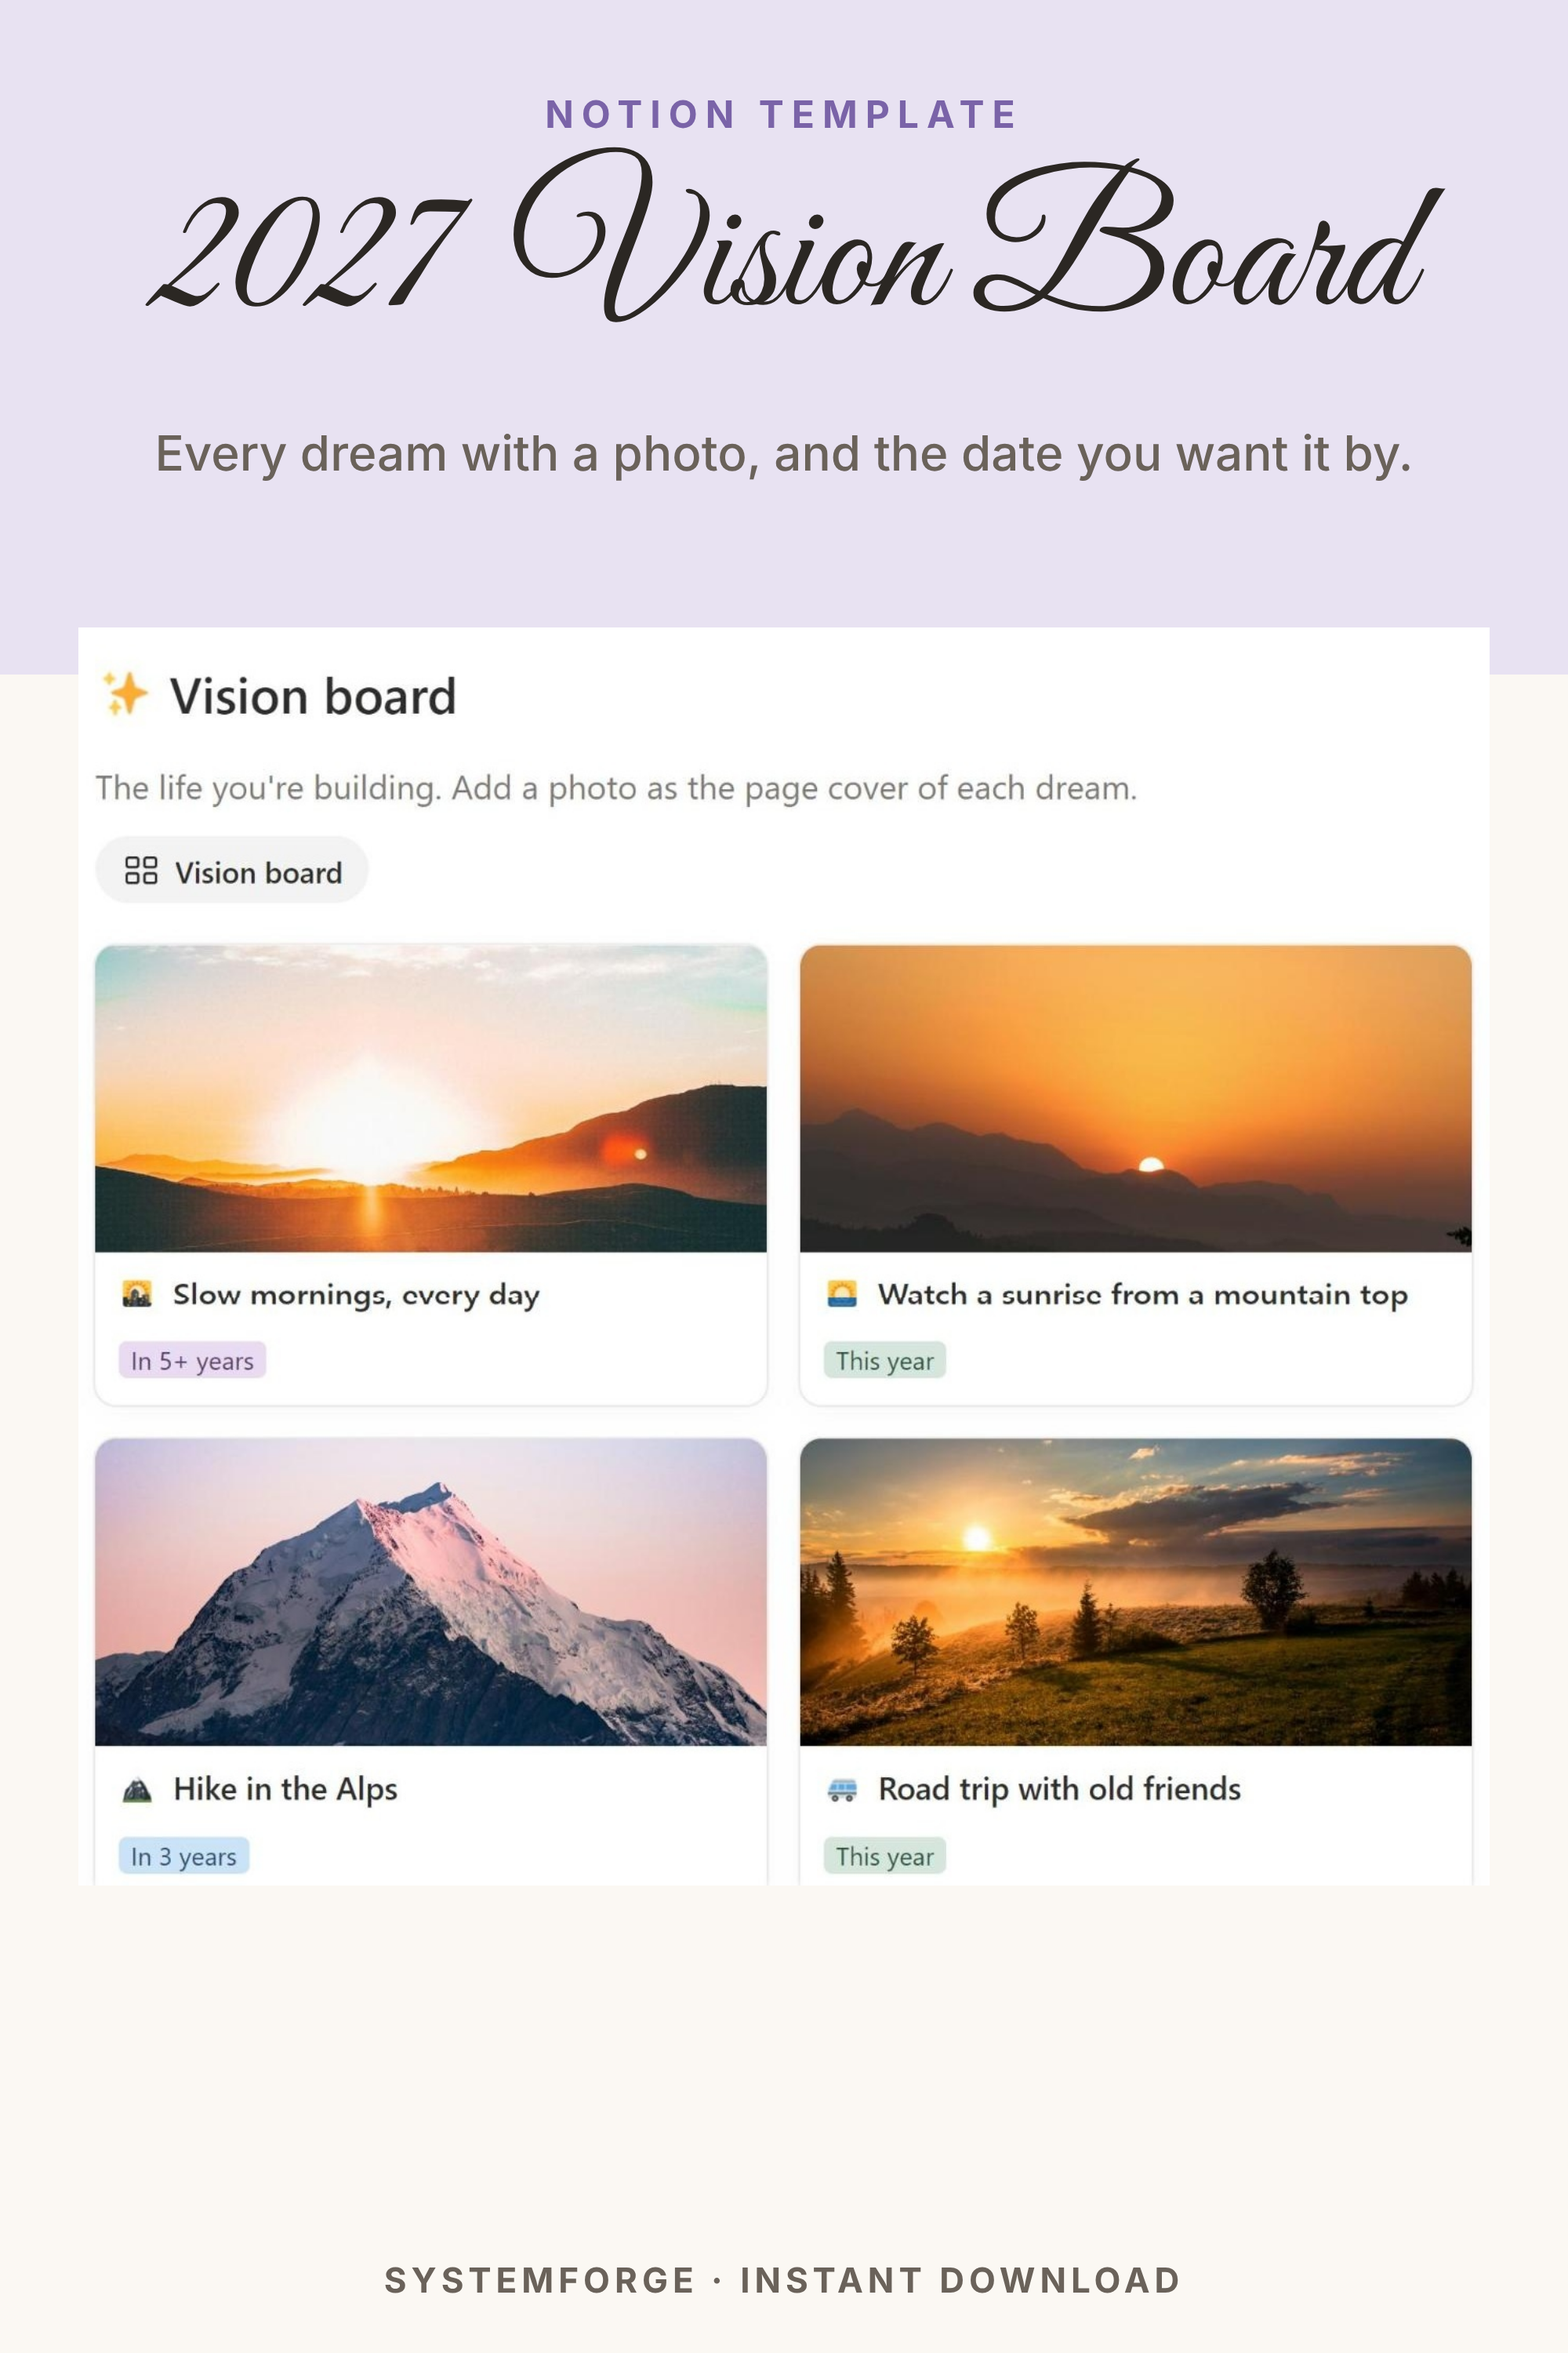
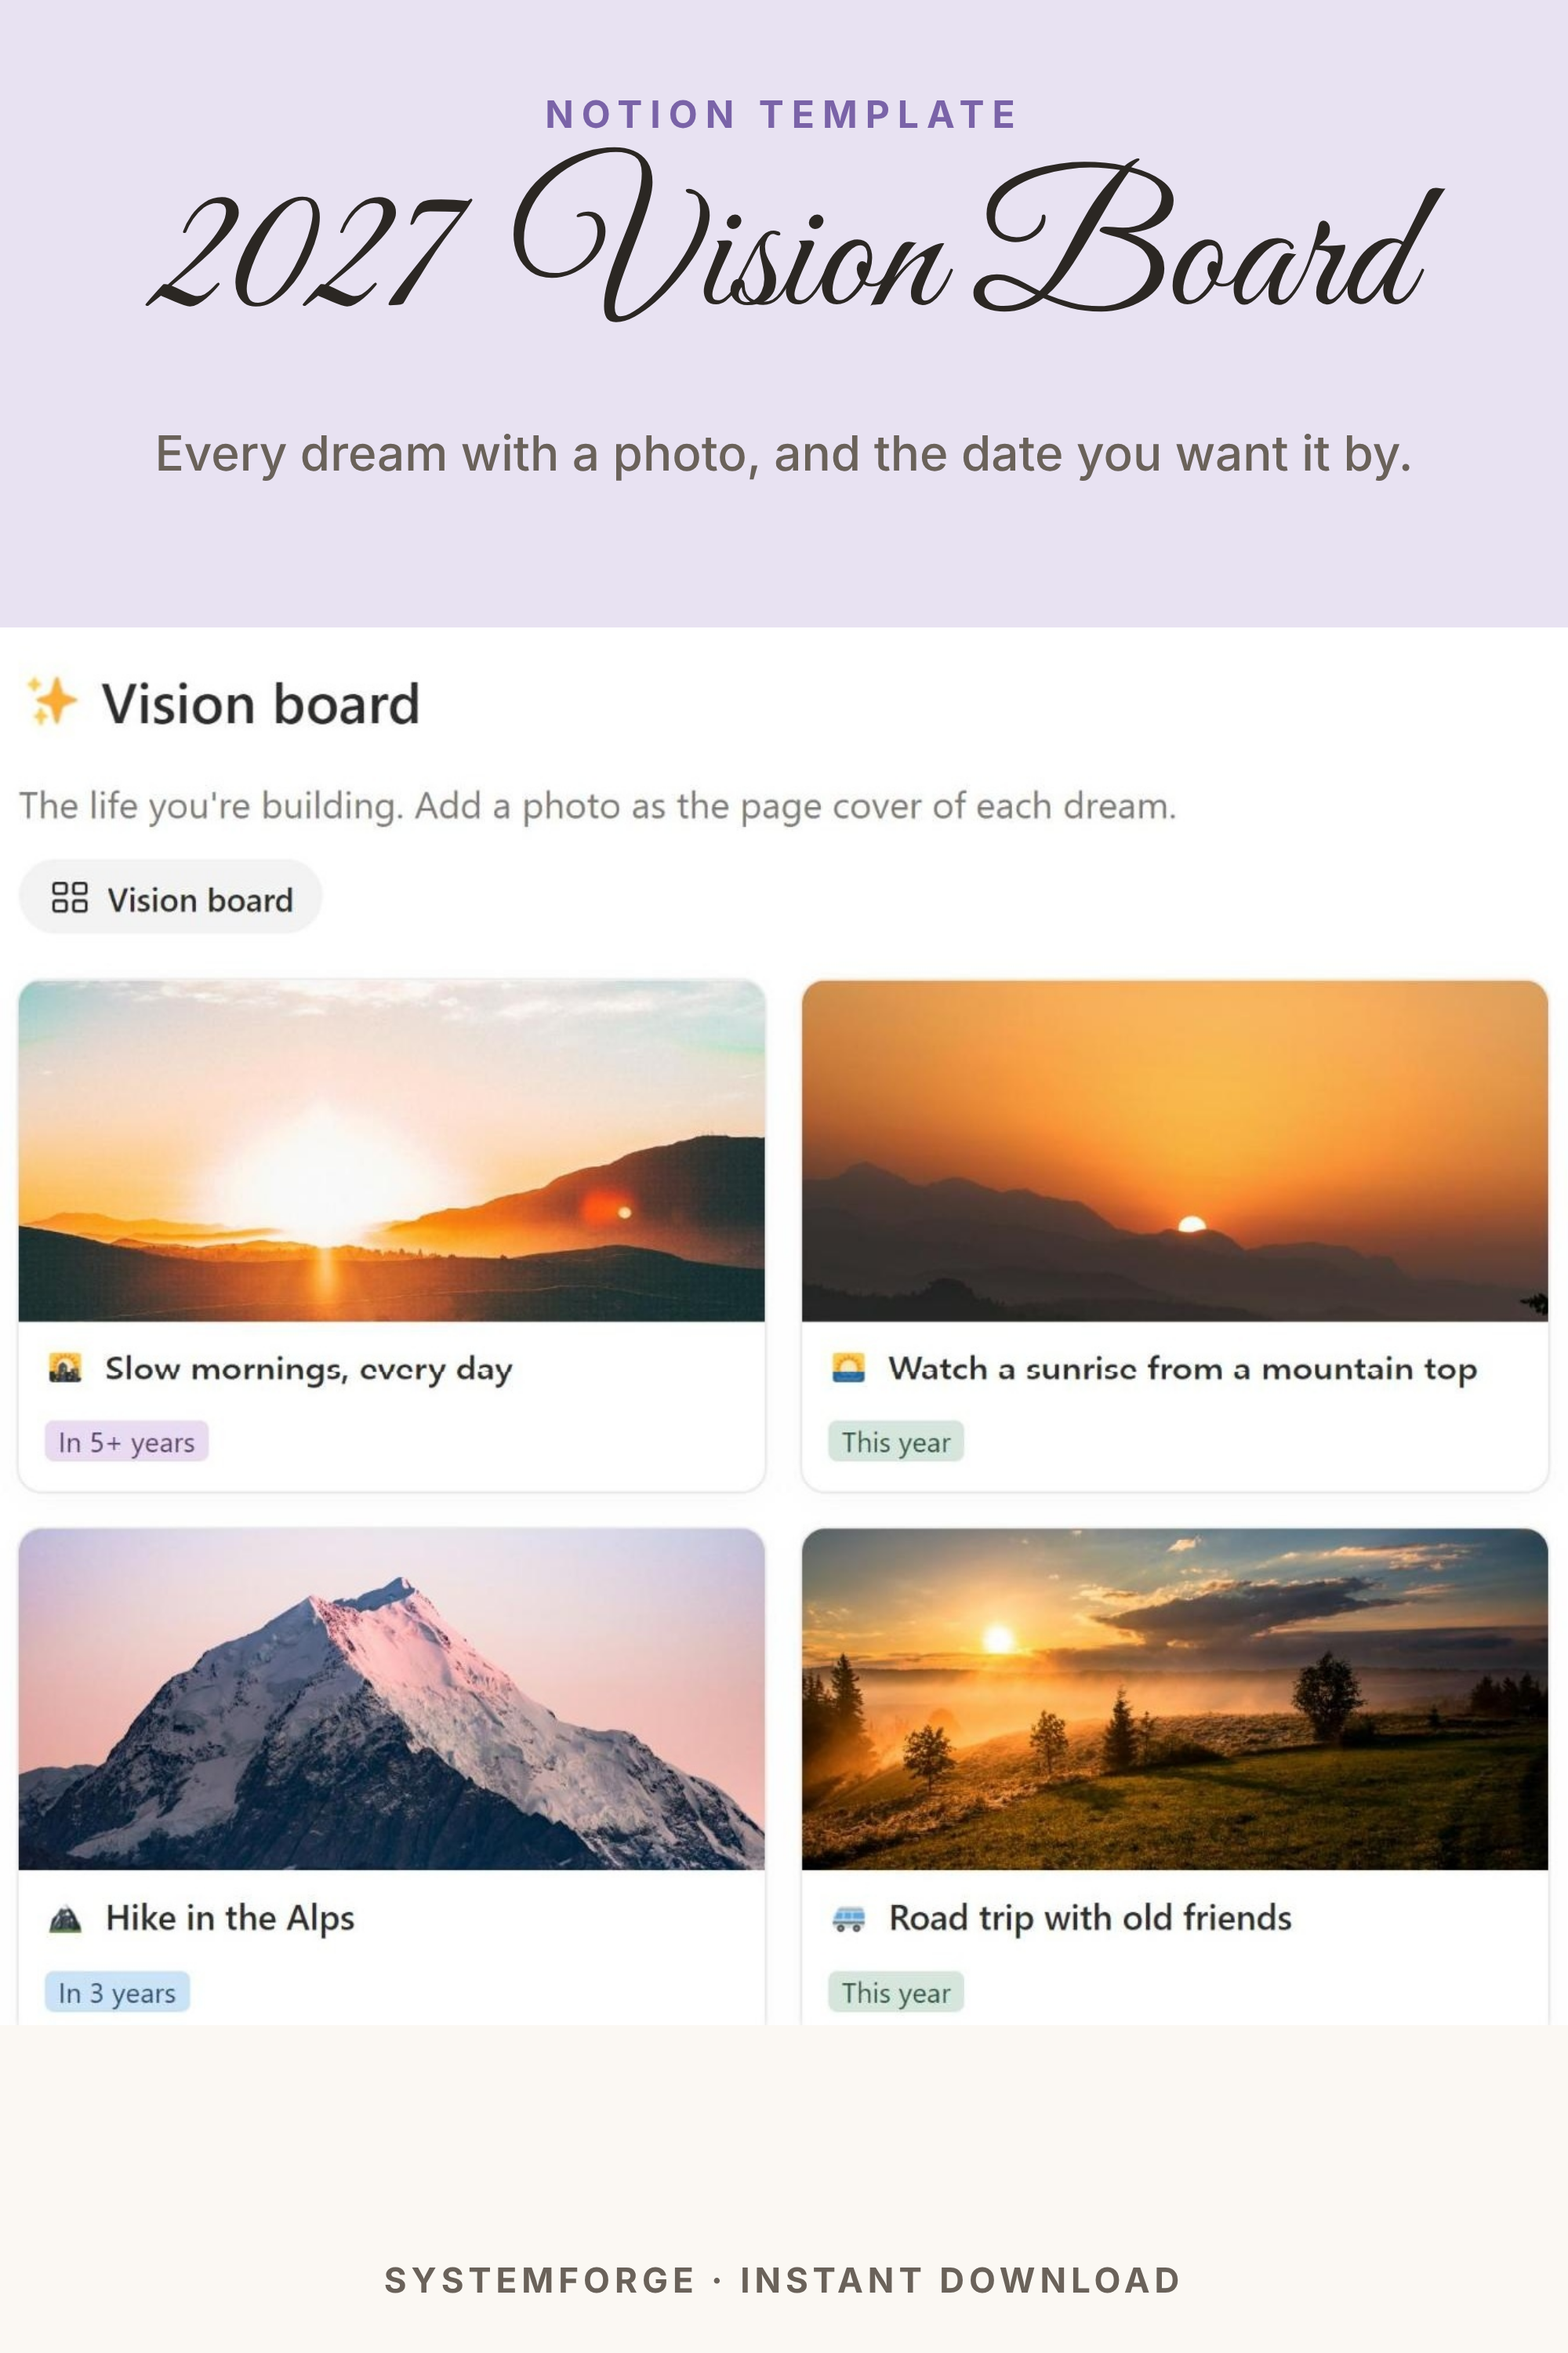
Pins v5: 9 more page-first pins (meal, journal, life) + full-width single crops
Claude-Session: https://claude.ai/code/session_01SESvdWYowsCKTnCuHXDcbL

Changed region(s): [[0.0, 0.248, 0.992, 0.868], [0.93, 0.248, 1.0, 0.31]]

diff --git a/generator/v3/canva_v5.py b/generator/v3/canva_v5.py
@@ -45,6 +45,43 @@ SETS = {'mjl': {
  'vb-b1': dict(p='life', style='b', title='DIGITAL VISION BOARD', kicker='for Notion',
                sub='Your dreams, your goals and the next small step, on one page.', badge='Bonus PDF:\n90-Day Goal\nWorkbook',
                crops=[('life-vision', (0, 0, 1345, 600)), ('life-goals', (0, 0, 1536, 973))]),
+},
+'more': {
+ 'meal-c1': dict(p='meal', style='c', kicker='EASY MEAL IDEAS', title='Easy weekly meals<br>to plan this week',
+                 foot='Every recipe with its time and your rating, in one Notion meal planner.',
+                 tiles=[('meal-recipes', (16, 273, 432, 503), 'Overnight oats with berries ·&nbsp;5&nbsp;min'),
+                        ('meal-recipes', (464, 273, 880, 503), 'Sheet-pan chicken and veggies ·&nbsp;40&nbsp;min'),
+                        ('meal-recipes', (912, 273, 1328, 503), 'Salmon rice bowl ·&nbsp;25&nbsp;min'),
+                        ('meal-recipes', (16, 783, 432, 1013), 'Chickpea veggie bowl ·&nbsp;15&nbsp;min')]),
+ 'meal-a2': dict(p='meal', style='a', kicker='RECIPE ORGANIZER', title='My Recipes',
+                 sub='Time, rating and tags on every card. Favorites first.',
+                 crops=[('meal-recipes', (0, 0, 1345, 1228))]),
+ 'meal-b2': dict(p='meal', style='b', title='MEAL PREP PLANNER', kicker='for Notion',
+                 sub='The next 7 days, planned. Tick Cooked when it is done.', badge='Bonus PDF:\nEat Well,\nStress Less',
+                 crops=[('meal-next7', (0, 0, 1160, 1208))]),
+ 'journal-c1': dict(p='journal', style='c', kicker='JOURNAL IDEAS', title='What to write<br>in a daily journal',
+                    foot='Four small lines a day. Your Notion journal keeps them all.',
+                    tiles=[('journal-entries', (16, 302, 432, 506), 'How you feel today'),
+                           ('journal-entries', (464, 302, 880, 506), 'Your energy level'),
+                           ('journal-entries', (912, 302, 1328, 506), 'One win, even a small one'),
+                           ('journal-entries', (16, 910, 432, 1112), 'One thing you are thankful for')]),
+ 'journal-a2': dict(p='journal', style='a', kicker='MOOD TRACKER', title='Monthly Mood',
+                    sub='Your average mood, great days and low days. It fills in by itself.',
+                    crops=[('journal-monthly', (0, 0, 1345, 983))]),
+ 'journal-b2': dict(p='journal', style='b', title='DAILY JOURNAL', kicker='for Notion',
+                    sub='Mood, energy, one win and one thank you for every day.', badge='Bonus PDF:\nJournaling\nguide',
+                    crops=[('journal-entries', (0, 0, 1345, 1198))]),
+ 'life-c1': dict(p='life', style='c', kicker='2027 GOAL IDEAS', title='Goals to set<br>for 2027',
+                 foot='Each goal with its progress bar and a date, in one Notion life planner.',
+                 tiles=[('life-goals', (32, 373, 552, 638), 'Learn to play guitar'),
+                        ('life-goals', (608, 373, 1128, 638), 'Get promoted at work'),
+                        ('life-goals', (1184, 373, 1536, 638), 'A weekly date night')]),
+ 'life-a2': dict(p='life', style='a', kicker='GOAL SETTING', title='My Goals',
+                 sub='Every goal with its own progress bar. Tick a step and it fills up.',
+                 crops=[('life-goals', (0, 0, 1536, 973))]),
+ 'life-b2': dict(p='life', style='b', title='GOAL TRACKER', kicker='for Notion',
+                 sub='Not started, in progress, done. See every goal at a glance.', badge='Bonus PDF:\n90-Day Goal\nWorkbook',
+                 crops=[('life-goals', (0, 0, 1536, 973))]),
 }}
 
 
@@ -63,11 +100,13 @@ def layout(s):
     out = []
     if s['style'] == 'c':
         for i, (n, b, _) in enumerate(s['tiles']):
-            w = 460; h = round((b[3] - b[1]) * w / (b[2] - b[0]))
-            out.append((n, b, 60, 385 + i * 235, w, h))
+            k = len(s['tiles']); step = 950 // k; ratio = (b[2] - b[0]) / (b[3] - b[1])
+            w = min(460, round((step - 26) * ratio)); h = round(w / ratio)
+            out.append((n, b, 60 + (460 - w) // 2, 380 + i * step + (step - 26 - h) // 2, w, h))
         return out
     if s['style'] == 'a':
         y, room, w, x = 400, 1500 - 400 - 100, 900, 50
+        if len(s['crops']) == 1: w, x = 1000, 0
     else:
         y, room, w, x = 660, 1500 - 660 - 100, 1000, 0
     for n, b in s['crops']:
